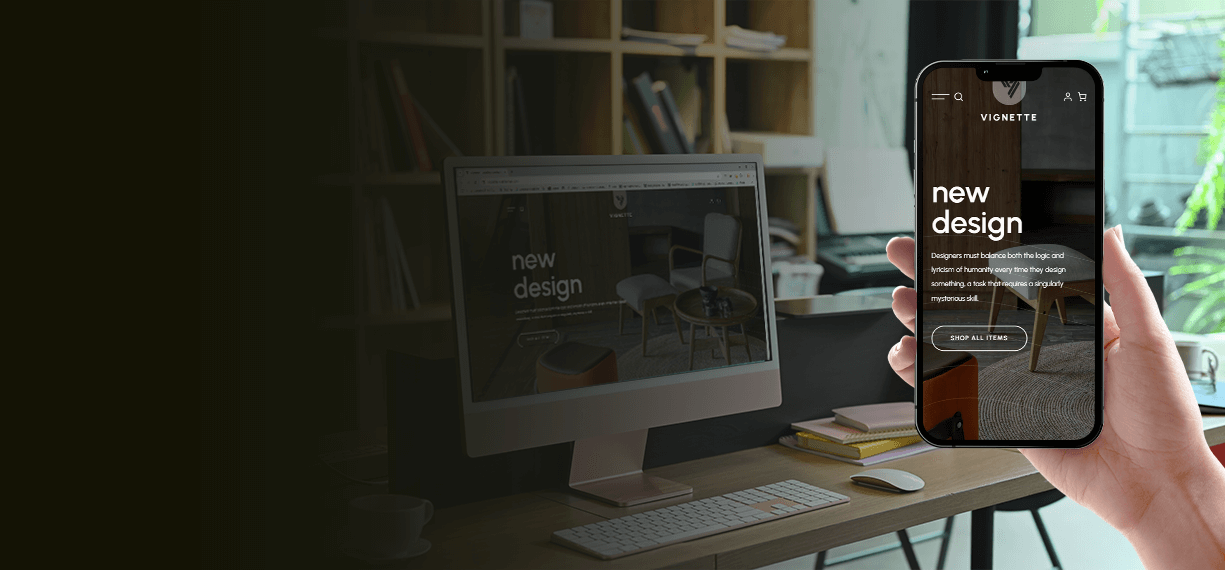
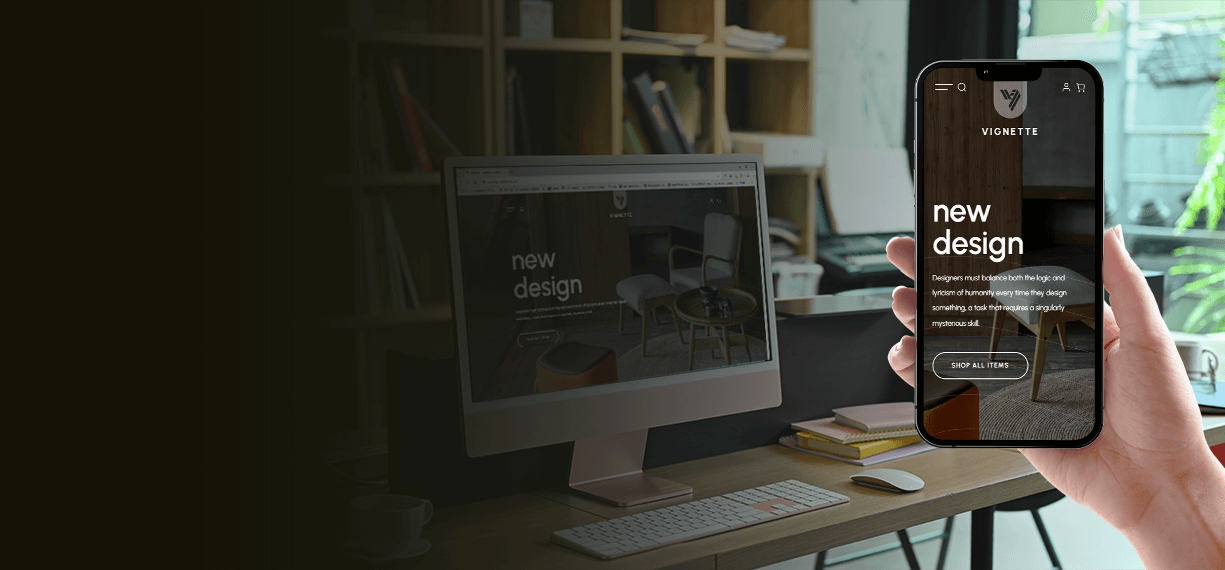
调整了几处样式

diff --git a/index.html b/index.html
@@ -48,7 +48,7 @@
         <a href="javascript:heoWeb.scrollTo('更多');" class="nav-item">更多</a>
       </div>
       <div class="nav-right">
-        <a href="https://blog.zhheo.com/" class="nav-item" target="_blank">博客</a>
+        <a href="https://youruilin.github.io/" class="nav-item" target="_blank">博客</a>
         <a href="https://plog.zhheo.com/" class="nav-item" target="_blank">图集</a>
         <a class="nav-menu" id="nav-menu"><span class="fas fa-bars fa-fw"></span></a>
       </div>
@@ -248,7 +248,7 @@
         <span class="linkbotton-tips">买断制</span>
       </div>
     </div>
-    <img class="special-card-right hand_phone" src="img/banner_wordpress.png"></img>
+    <img class="special-card-right hand_phone" src="img/banner_wordpress_min.png"></img>
   </div>
 
   <!-- Blog banner -->
